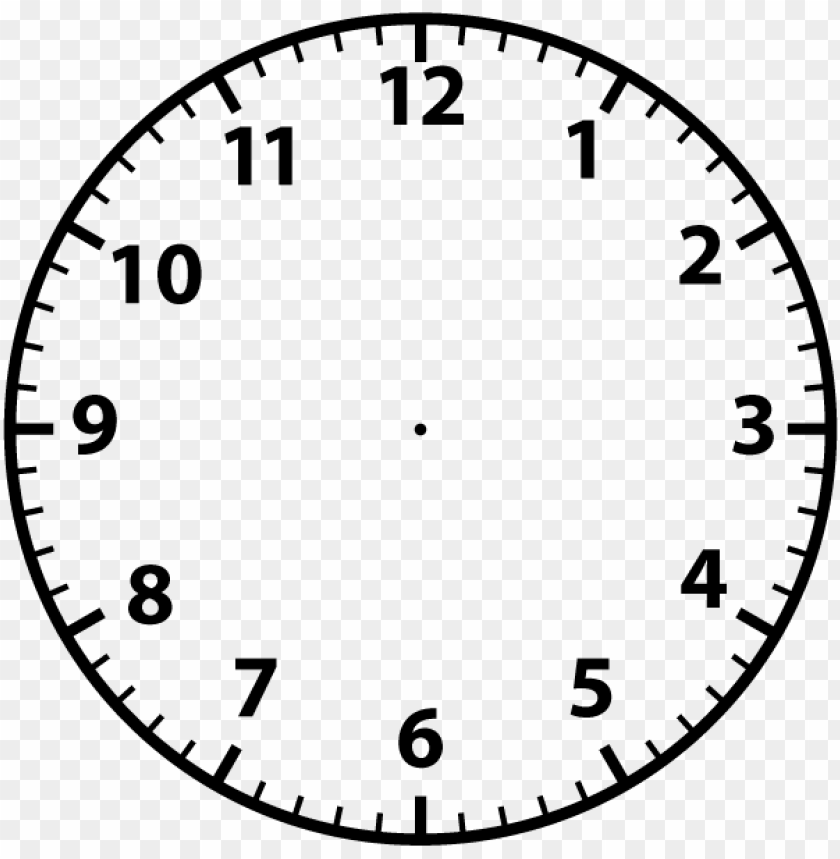
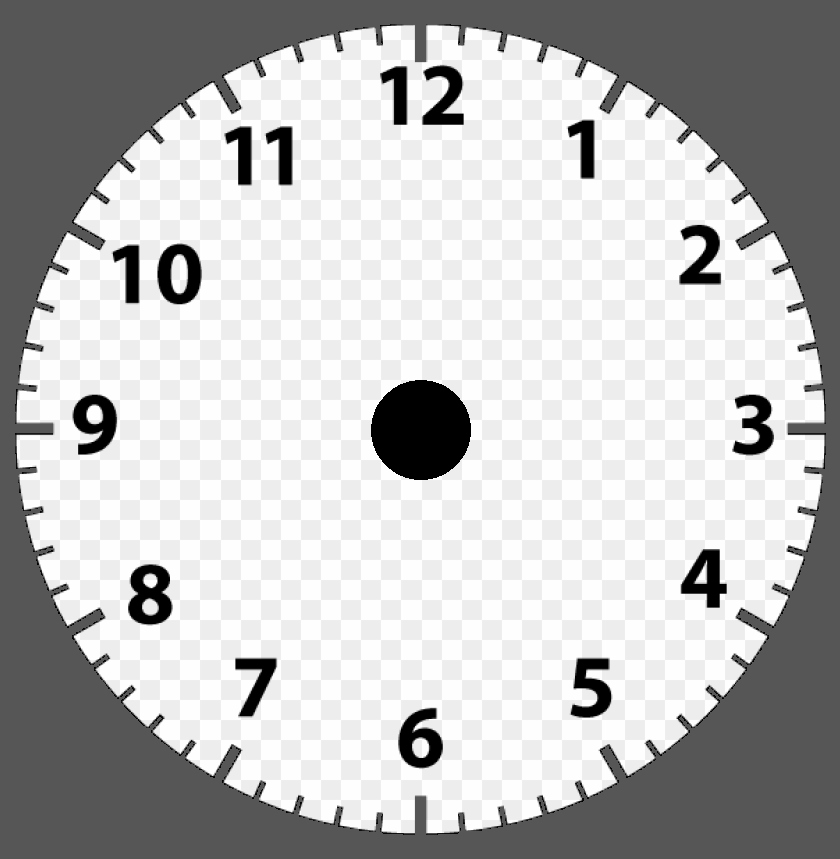
* Improve interface putting a background color and changing the clock colors to match the background

diff --git a/index.html b/index.html
@@ -4,7 +4,7 @@
     <link rel="stylesheet" href="style.css">
     <script src="index.js"></script>
 </head>
-<body>
+<body bgcolor="#565656"> 
     <div id="clockContainer">
         <div id="hour"></div>
         <div id="minute"></div>
